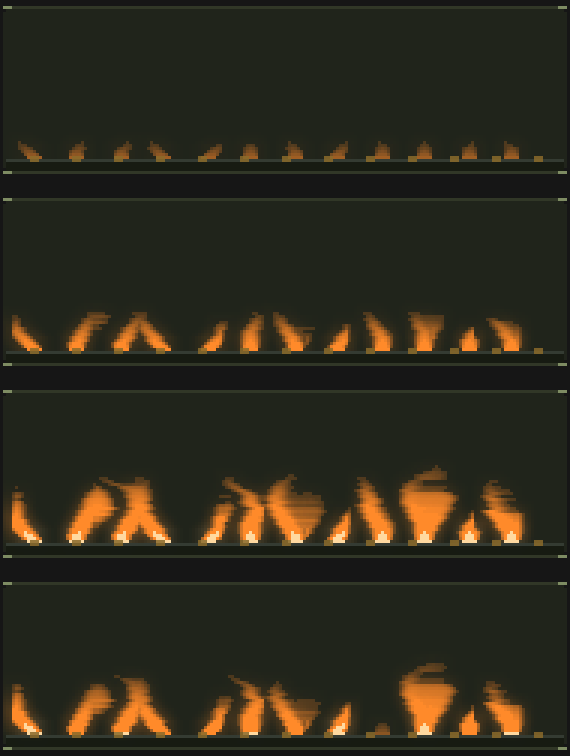
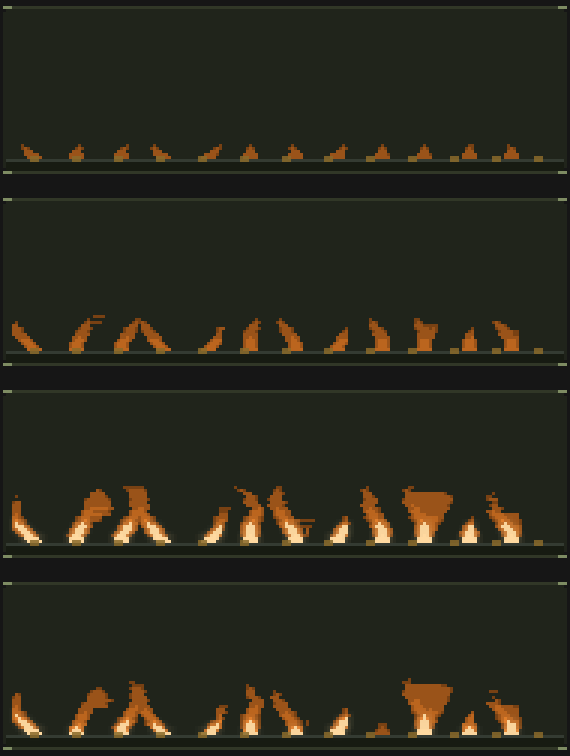
feat(flame): make it read as fire rather than watercolour
Feedback was "a bit less watercolour", which was the right word. Three separate
causes, all of them mine:

  - the WHOLE field was bloomed, not just the hot core. A halo around an already
    soft edge is the wash itself.
  - the coolest zone was drawn as a continuous heat-to-alpha ramp with a 10%
    minimum, so every plume carried a translucent fringe two or three pixels
    beyond its body.
  - the diffusion bled too far sideways, which turns a plume's boundary into a
    gradient.

So the field is now POSTERISED to five discrete levels, each drawn at full alpha,
which gives contour edges instead of a gradient - the same graphic, banded look
the segmented, nixie and Pantone families get from having discrete elements in
the first place. Only the core goes on the bloomed layer; the body goes straight
onto the opaque panel, which is the arrangement patchbay uses for its cables and
tube for its cathodes. The core's bloom radius is halved, because at full radius
its halo reaches back over the crisp body and undoes the separation.

Overshooting it produced a real regression worth recording. Raising the draw
floor to 0.16 to kill the fringe also killed the PILOT FLAMES: an idle seed of
0.06 never reaches the heat that gets drawn, so the quiet case rendered as bare
nozzle stubs - a gas manifold that looks switched off, which is exactly what the
seed floor exists to prevent and what the valve row's heater floor and the reel's
[…]

diff --git a/docs/review/index.html b/docs/review/index.html
@@ -100,12 +100,19 @@ Regenerate any of these with <code>cargo test --release dump_flourishes -- --ign
   <figure><img src="flame-prototype.png" alt="flame organ prototype">
   <figcaption>rows: quiet &middot; normal &middot; loud &middot; a comb (alternating loud and quiet band
   groups), which is the row that shows whether the per-band reading is legible</figcaption></figure>
-  <p class="judge"><strong>What I want your eyes on:</strong> is this the thing you pictured? Two rounds
-  of iteration got here &mdash; the first looked like scattered embers (a 3px core bled its heat away),
-  the second had every plume leaning in unison like a gust of wind. What I would still change: some
-  plumes pile into flat-topped wedges where the lean shears them, and it is chunky at 60px. Tell me
-  whether to push on the taper, and what the colourways should be &mdash; flame, vapour and plasma all
-  fall out of the same buffer with a different ramp.</p>
+  <p class="judge"><strong>What I want your eyes on:</strong> this is the <em>less watercolour</em> pass.
+  The wash came from three things, all now changed: the whole field was bloomed rather than just the hot
+  core, the coolest zone was drawn as a broad low-alpha gradient, and the diffusion bled too far sideways.
+  The field is now posterised to five discrete levels drawn at full alpha, only the core blooms, and the
+  body goes straight onto the opaque panel &mdash; the arrangement the patchbay and valve families already
+  use.<br><br>
+  Overshooting it was instructive: raising the draw floor to get hard edges also killed the pilot flames,
+  so the quiet row rendered as bare nozzle stubs &mdash; a manifold that looks switched off. The pilot seed
+  is raised to clear the floor now.<br><br>
+  <strong>Still not right:</strong> one or two plumes spread into solid funnels rather than tapering
+  (clearest in the loud and comb rows, right of centre) &mdash; I think that is two neighbours merging.
+  Say the word and I will chase it. Otherwise the open question is the colourways: flame, vapour and plasma
+  all fall out of this same buffer with a different ramp, and a family needs five.</p>
 </section>
 <footer>
 Generated from the renderers themselves, not drawn by hand. Progress log:

diff --git a/src/render/flame.rs b/src/render/flame.rs
@@ -56,10 +56,18 @@ const COOL: f32 = 0.023;
 /// How much of each cell's heat comes from the cell directly below, against its two diagonal
 /// neighbours.
 ///
-/// 0.55 to the centre keeps a plume narrow enough to stay separable from its neighbour; nearer 0.33
+/// 0.68 to the centre keeps a plume narrow enough to stay separable from its neighbour; nearer 0.33
 /// (a flat average) and it spreads into a dome within a dozen rows. This is the knob that decides
 /// whether the display reads as twelve flames or as one fire.
-const CENTRE_BIAS: f32 = 0.55;
+///
+/// Raised from 0.55 to sharpen the edges. Side bleed is what turns a plume's boundary into a gradient,
+/// and a gradient at this size reads as watercolour rather than as fire - the same reason `ZONES` below
+/// posterises the field instead of drawing it continuously.
+///
+/// 0.62 rather than the 0.68 first tried: with the field posterised as well, that much centre bias made
+/// the plumes solid wedges. Sharpening the edges and thickening the body are different things, and only
+/// the first was wanted.
+const CENTRE_BIAS: f32 = 0.62;
 
 /// Peak sideways lick, in pixels of sampling offset.
 ///
@@ -77,6 +85,29 @@ const CENTRE_BIAS: f32 = 0.55;
 /// across the whole manifold rather than as twelve independent flames, which is a different and much
 /// less interesting picture.
 const LICK: f32 = 0.95;
+
+/// Heat levels the field is quantised to before it is drawn, and the heat below which nothing is drawn
+/// at all.
+///
+/// THIS IS WHAT STOPS IT LOOKING LIKE WATERCOLOUR. A continuous heat-to-alpha ramp gives every plume a
+/// soft translucent halo that fades to nothing, and at 60px that reads as a wash rather than as
+/// combustion. Snapping the field to five discrete levels, each drawn at FULL alpha, gives the plume hard
+/// contour edges - the same graphic, banded look the segmented, nixie and Pantone families get from
+/// having discrete elements in the first place.
+///
+/// `FLOOR` is the other half of it. The first version drew anything above 0.02 at a 10% alpha minimum,
+/// which painted a faint envelope two or three pixels beyond the plume on every side. Nothing below 0.16
+/// is drawn now, so the plume has an edge instead of a fringe.
+const ZONES: f32 = 5.0;
+const FLOOR: f32 = 0.16;
+
+/// Heat at or above which a cell is treated as the flame's core, and blooms.
+///
+/// Only the core goes on the bloomed layer. Blooming the whole field - which is what the first version
+/// did - haloes the cool outer zones too, and a halo around an already-soft edge is precisely the
+/// watercolour effect. The pattern here is the one `patchbay` uses for its cables and `tube` for its
+/// cathodes: the opaque body goes straight onto the panel, and only the light blooms.
+const CORE_HEAT: f32 = 0.62;
 
 /// Response window, in band-level units. Matches the other families' convention - see `patchbay`'s
 /// `RESP_FLOOR` note for why this is placed on what the DSP actually produces rather than on 0..1.
@@ -207,7 +238,11 @@ impl Flame {
             // A floor, so a lit burner never goes out: an unlit nozzle on a gas manifold reads as
             // broken, which is the same reason the valve row keeps a heater floor and the reel keeps
             // turning at silence.
-            let seed = 0.06 + 0.94 * lvl;
+            // The 0.20 floor is a PILOT FLAME and it has to clear `FLOOR`, or a quiet burner draws
+            // nothing and the manifold reads as switched off. Posterising the field made this a real
+            // regression rather than a theoretical one: at a 0.06 floor the quiet case rendered as bare
+            // nozzle stubs, because 0.06 seeded heat never reaches the 0.16 that gets drawn.
+            let seed = 0.20 + 0.80 * lvl;
             for k in 0..SEED_W {
                 let x = cx - SEED_W / 2 + k;
                 if x >= 0 && x < w {
@@ -248,38 +283,64 @@ impl Family for Flame {
         let dt = if d.dt_ms.is_finite() { (d.dt_ms / 16.7).clamp(0.25, 4.0) } else { 1.0 };
         self.advance(d, t.sensitivity, dt);
 
-        // Everything that emits light goes on its own transparent layer to be bloomed once and
-        // composited - `Canvas::bloom` puts its halo UNDER existing content, so blooming a canvas that
-        // already carries the opaque panel hides it completely. The trap documented in segmented,
-        // scope, vu, tube and waterfall.
-        let mut lit = Canvas::new(cw, ch);
+        // TWO LAYERS, and the split is what keeps this from looking like watercolour. The cooler zones
+        // are the flame's BODY and go straight onto the opaque panel at full alpha, so they have hard
+        // edges. Only the core goes on the transparent layer that gets bloomed.
+        //
+        // Blooming everything - which the first version did - puts a halo around the soft outer zones as
+        // well, and a halo on an already-soft edge is the wash itself. This is the same arrangement
+        // `patchbay` uses for its cables and `tube` for its cathodes.
+        //
+        // `Canvas::bloom` also puts its halo UNDER existing content, so blooming a canvas that already
+        // carries the opaque panel would hide it completely - the trap documented in segmented, scope,
+        // vu, tube and waterfall.
+        let mut core = Canvas::new(cw, ch);
         for y in 0..ih {
             for x in 0..iw {
                 let v = self.at(x, y);
-                if v <= 0.02 {
+                if v < FLOOR {
                     continue;
                 }
-                // Three zones, which is what makes it read as combustion rather than as a gradient: a
-                // cool translucent envelope, the body in the colourway's own lit colour, and a white
-                // core only where it is truly hot.
+                // Posterised: snapped to one of `ZONES` levels and drawn at FULL alpha, so the plume has
+                // contour edges rather than a gradient. `z` is 1..=ZONES.
+                let z = ((v * ZONES).floor() + 1.0).min(ZONES);
                 let frac = x as f32 / iw as f32;
-                let col = if v > 0.72 {
-                    Rgba::from_hex(&t.hot, 1.0)
-                } else if v > 0.34 {
-                    super::tint(t, frac, d.time_s, false, &t.lit, 1.0)
+                if v >= CORE_HEAT {
+                    // The hottest band is the colourway's `hot`; the one below it is a blend, so the core
+                    // is not a single flat blob at high drive.
+                    let a = if z >= ZONES { 1.0 } else { 0.82 };
+                    core.fill_rect(ix + x, iy + y, 1, 1, Rgba::from_hex(&t.hot, a));
                 } else {
-                    super::tint(t, frac, d.time_s, false, &t.lit, (v * 2.2).clamp(0.10, 0.85))
-                };
-                lit.fill_rect(ix + x, iy + y, 1, 1, col);
+                    // Body zones, opaque, dimmed by zone so the banding reads as depth. 0.34 to 1.0
+                    // rather than 0.55 to 1.0: the narrower range made the whole plume one flat orange,
+                    // which is crisp but not fiery. The outermost band is still clearly present - a band
+                    // that fades to nothing is the gradient this exists to replace.
+                    let k = 0.34 + 0.66 * (z / ZONES);
+                    let col = super::tint(t, frac, d.time_s, false, &t.lit, 1.0);
+                    c.fill_rect(
+                        ix + x,
+                        iy + y,
+                        1,
+                        1,
+                        Rgba::new(
+                            (col.r as f32 * k) as u8,
+                            (col.g as f32 * k) as u8,
+                            (col.b as f32 * k) as u8,
+                            255,
+                        ),
+                    );
+                }
             }
         }
 
         if t.bloom > 0.0 {
-            let mut glow = lit.clone();
-            glow.bloom(t.bloom.max(0.0) as i32, t.glow_strength.clamp(0.0, 1.0));
+            let mut glow = core.clone();
+            // Half the colourway's bloom. At full radius the core's halo reaches back over the crisp body
+            // and undoes the whole point of separating them.
+            glow.bloom((t.bloom * 0.5).max(0.0) as i32, t.glow_strength.clamp(0.0, 1.0));
             c.draw_over(&glow);
         }
-        c.draw_over(&lit);
+        c.draw_over(&core);
 
         // The manifold, over the flames' feet so the plumes read as leaving it. Drawn from the valve
         // row's chassis colours for the same reason the patchbay borrows them: a gas pipe and a valve
